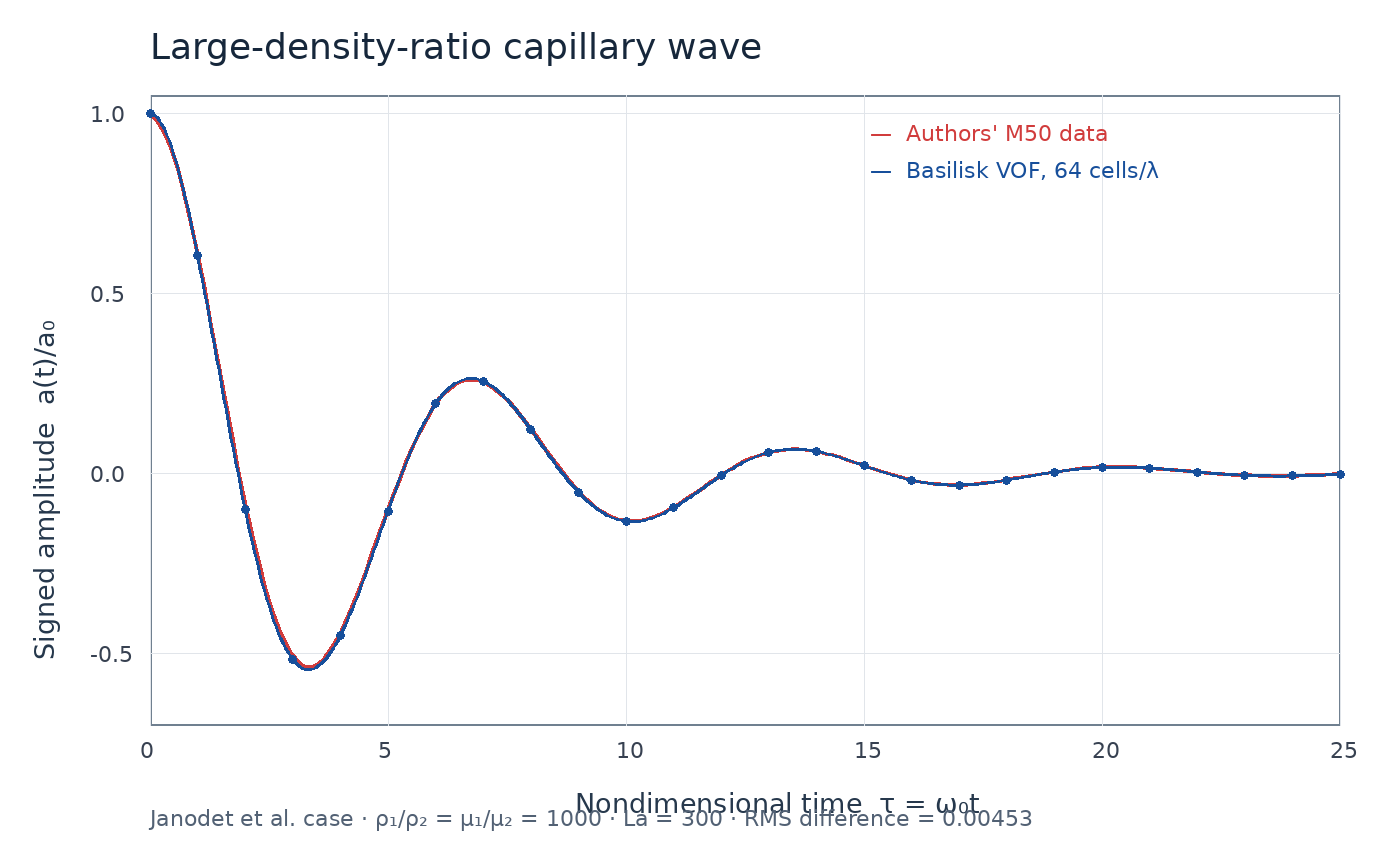
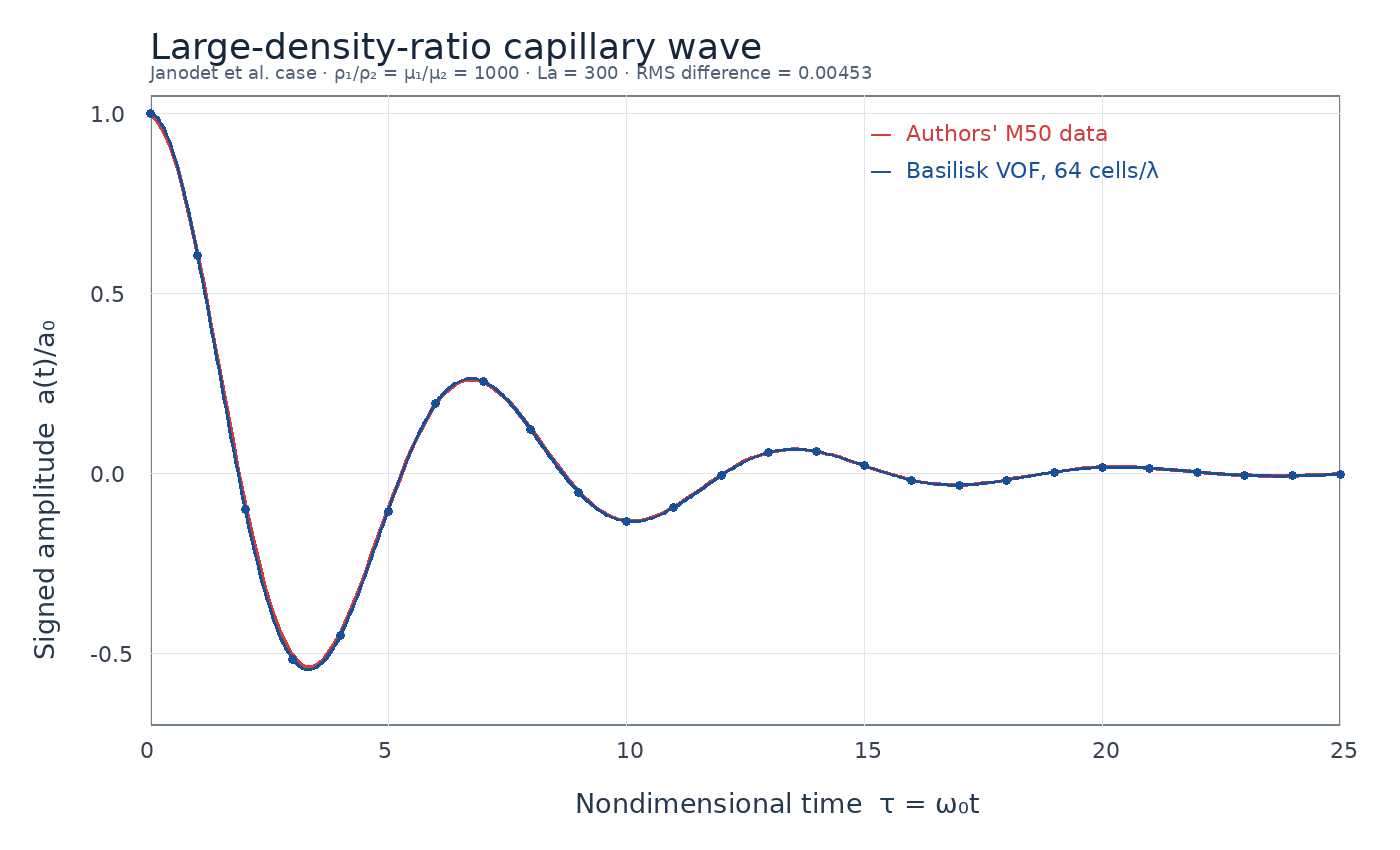
fix: improve Janodet wave plot labels

Changed region(s): [[0.0921, 0.0612, 0.6143, 0.0918], [0.0921, 0.9482, 0.4607, 0.9788], [0.4914, 0.9482, 0.7371, 0.9788]]

diff --git a/capwave-run/plot_janodet_amplitude.py b/capwave-run/plot_janodet_amplitude.py
@@ -86,8 +86,8 @@ ImageDraw.Draw(y_label).text((0, 0), "Signed amplitude  a(t)/a₀",
                             font=label_font, fill="#26384c")
 y_label = y_label.rotate(90, expand=True)
 image.paste(y_label, (28, (top + bottom - y_label.height)//2), y_label)
-draw.text((left, height - 45),
+draw.text((left, 62),
           f"Janodet et al. case · ρ₁/ρ₂ = μ₁/μ₂ = 1000 · La = 300 · RMS difference = {rms:.3g}",
-          font=tick_font, fill="#526174")
+          font=font(18), fill="#526174")
 image.save("janodet2024-amplitude-vs-time.png")
 print(f"janodet2024-amplitude-vs-time.png RMS={rms:.8g}")
